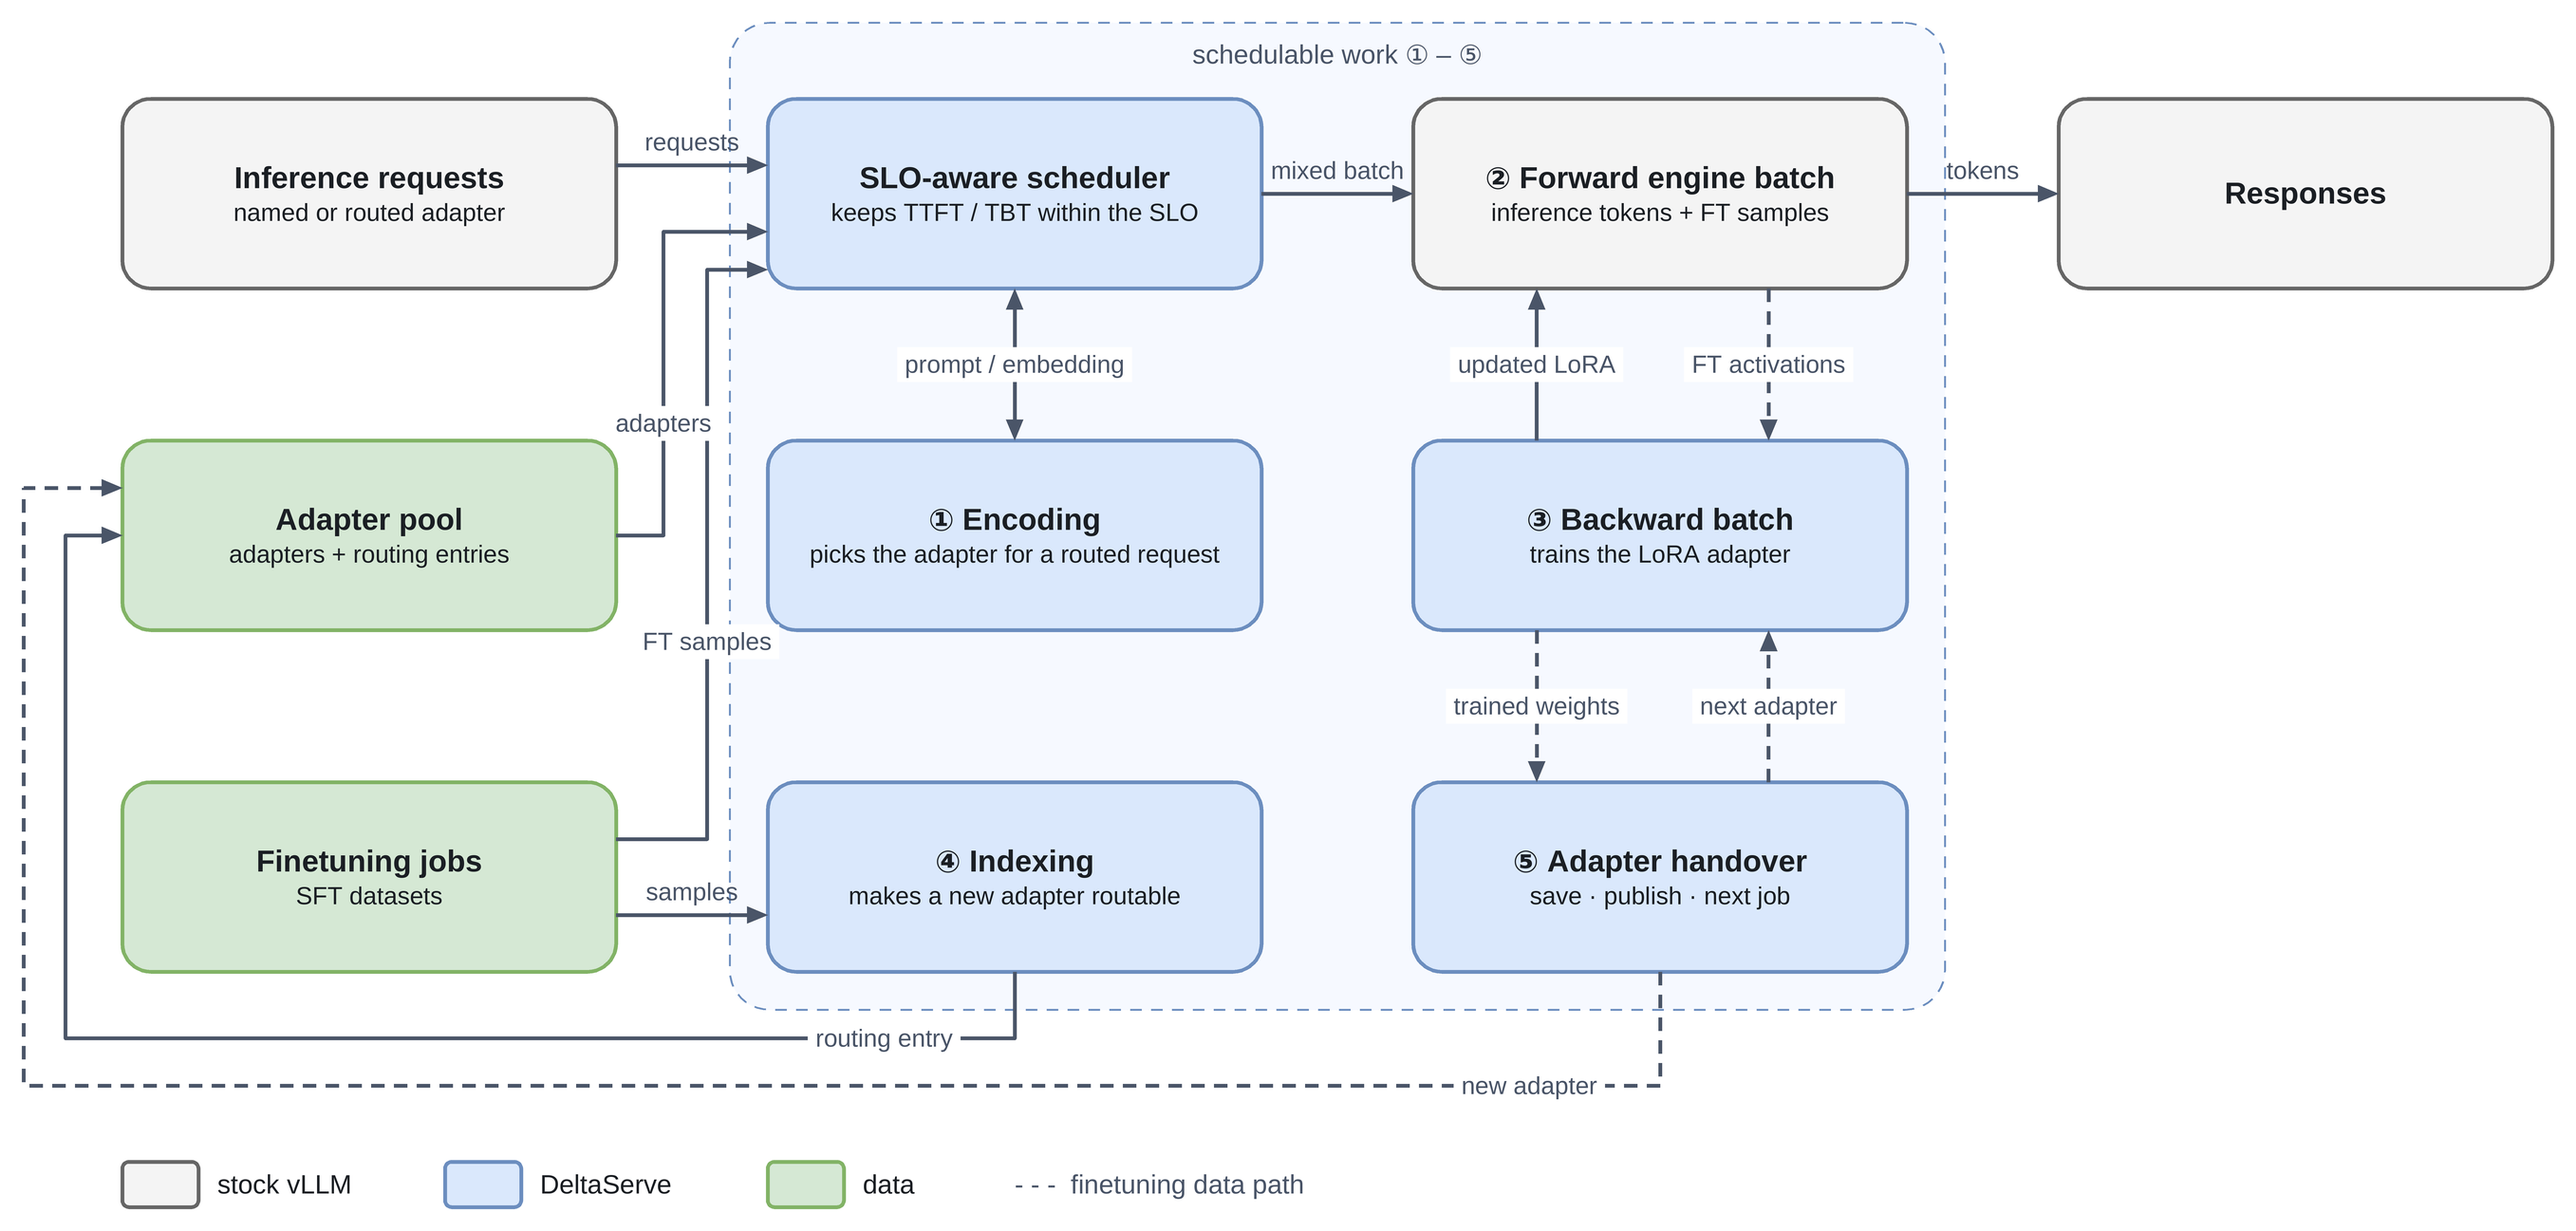
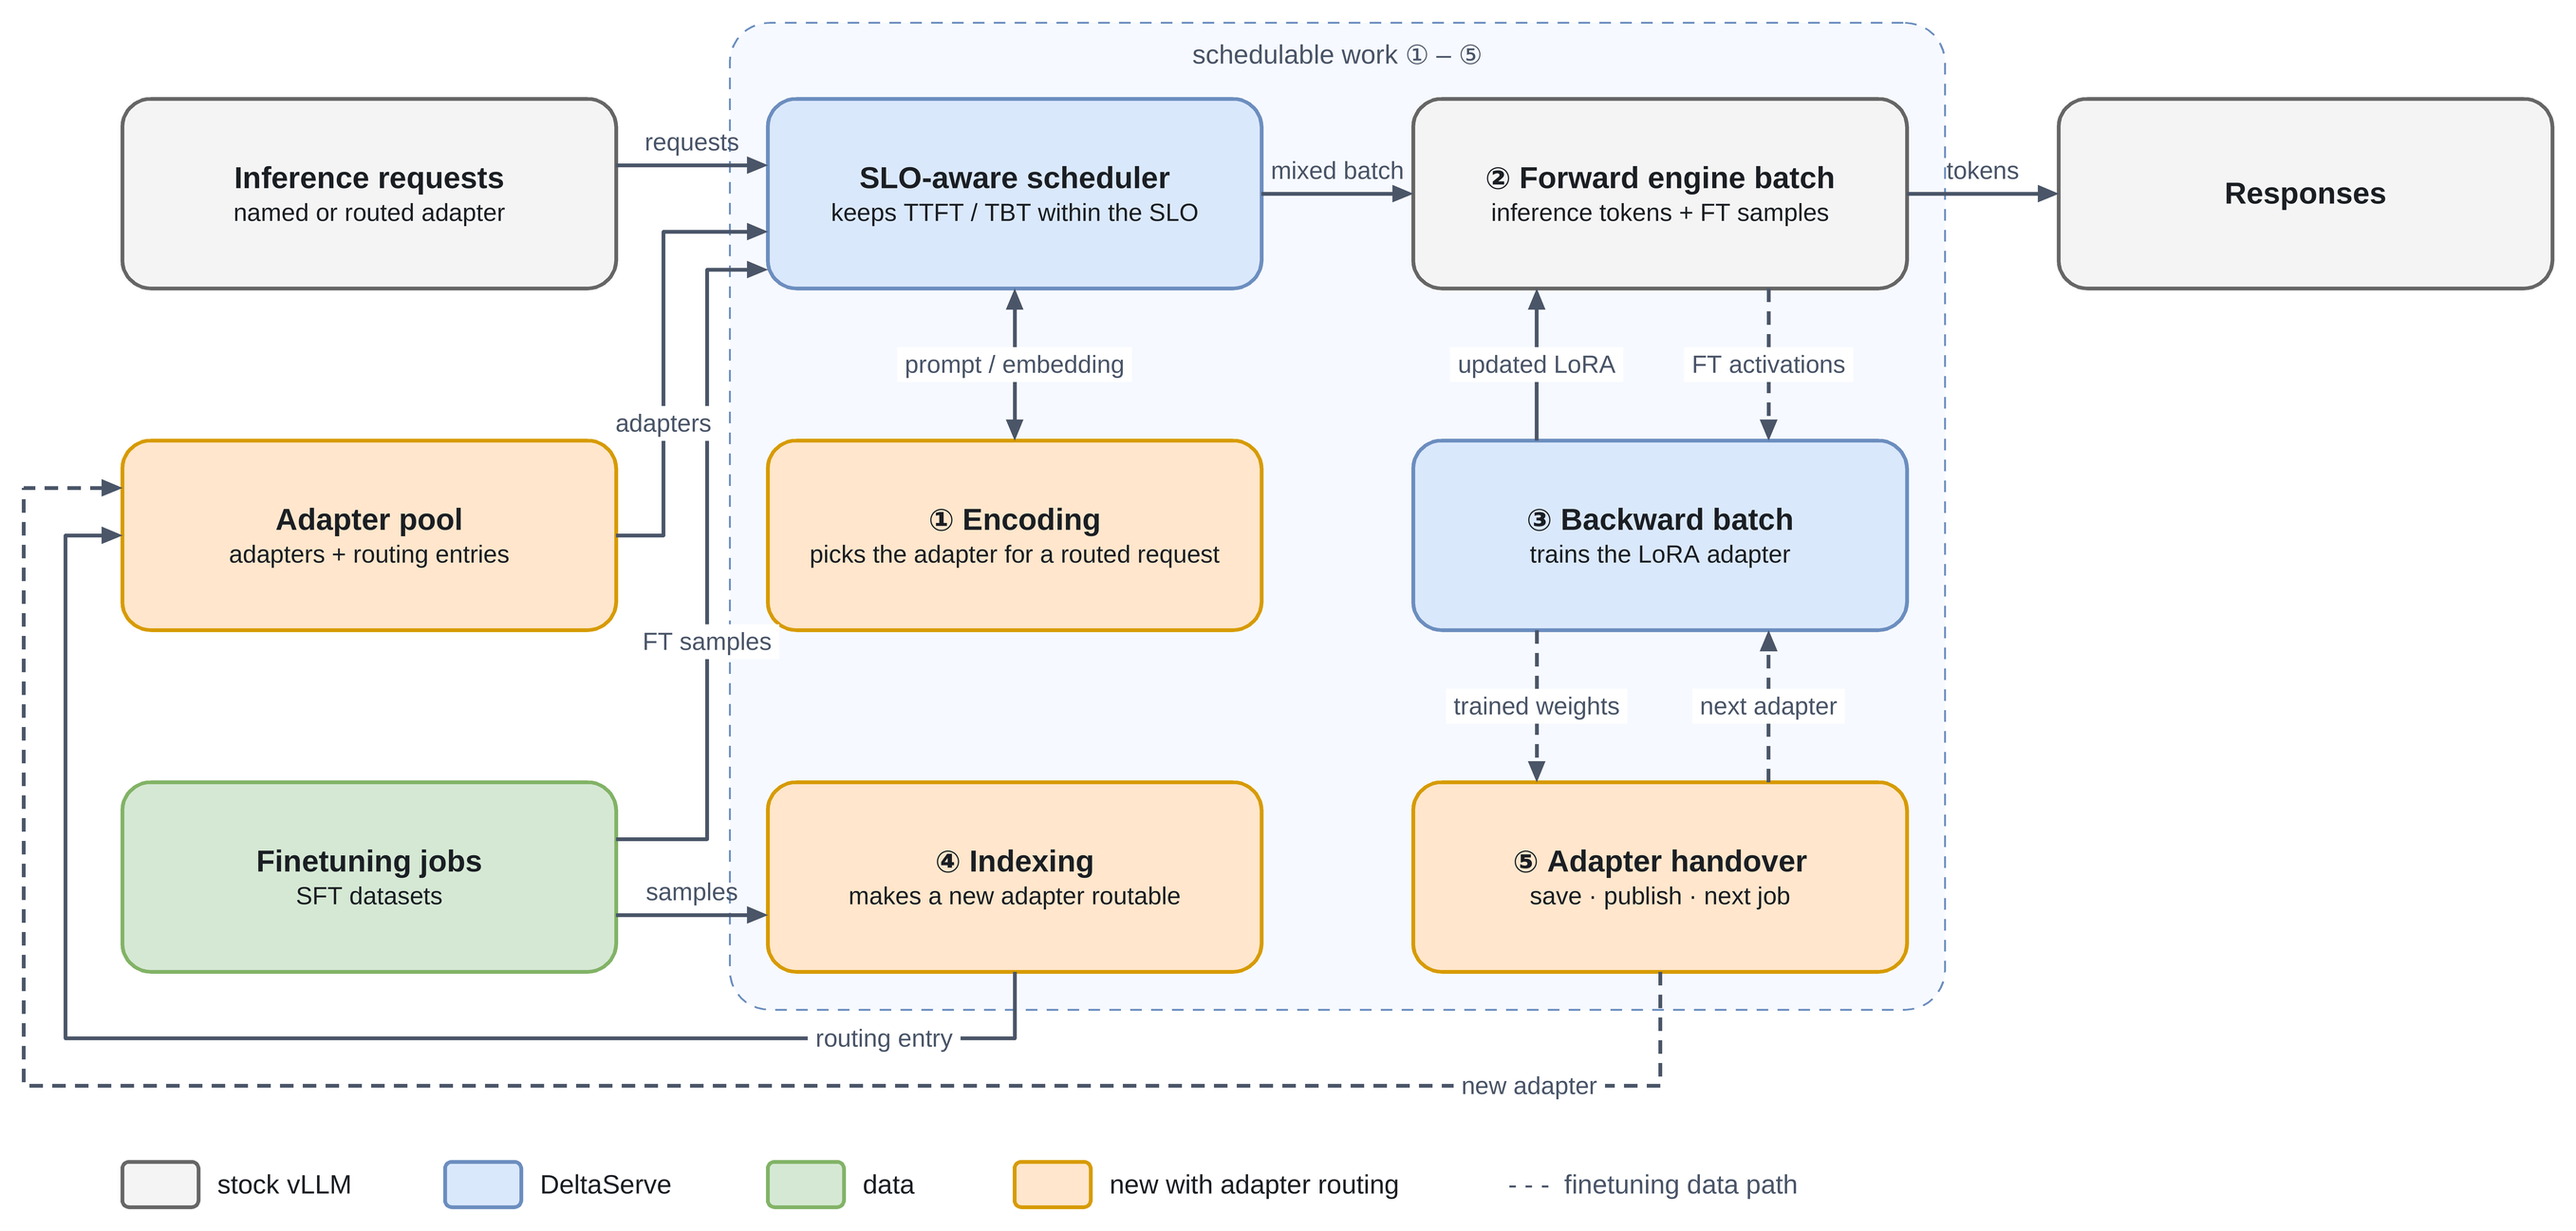
docs: scheduling figures — saved FT activations box, new components highlighted, indexing/handover decisions inside the scheduler

diff --git a/docs/adapter_routing_scheduling.md b/docs/adapter_routing_scheduling.md
@@ -64,7 +64,8 @@ indexing, and the adapter handover.
 
 The same picture with the loop added. Inputs are on the left (inference requests,
 the adapter pool, finetuning jobs), responses on the right, and everything in between
-is work the scheduler decides.
+is work the scheduler decides. Orange marks what is new compared with section 2:
+the adapter pool, encoding, indexing and the adapter handover.
 
 The principle: **anything that occupies the GPU or the engine loop is decided by the
 scheduler.** Nothing takes GPU time on its own initiative.
@@ -103,6 +104,11 @@ load what the batch needs, run the forward batch, then let the backward use what
 left. The backward is paused only for the two step kinds that are latency-critical
 for a new request — an encode step and a step containing inference prefill — and
 resumes as soon as the prefill completes. A decode-only step does not pause it.
+
+Two more decisions sit in the scheduler but are not part of building the batch, and
+are taken only when the state changes: whether indexing may use the GPU, and when to
+start an adapter handover. Indexing and the handover then run on their own, outside
+the engine loop.
 
 ## 8. Scheduler decisions
 
